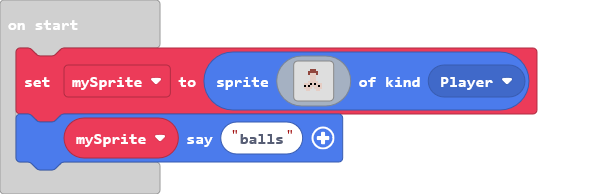
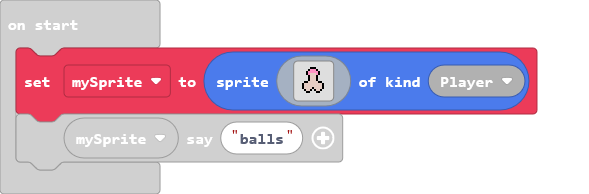
Update main.blocks, main.ts

Changed region(s): [[0.0, 0.5567, 0.5806, 0.8969], [0.7029, 0.3093, 0.9168, 0.5258], [0.489, 0.3402, 0.5501, 0.4948]]

diff --git a/main.ts b/main.ts
@@ -1,18 +1,18 @@
 let mySprite = sprites.create(img`
     . . . . . . . . . . . . . . . . 
-    . . . . . . . . . . . . . . . . 
-    . . . . . . e e e . . . . . . . 
-    . . . . . e e e e e . . . . . . 
-    . . . . . e d d d e . . . . . . 
-    . . . . . . d d d . . . . . . . 
-    . . . . . . d d d . . . . . . . 
-    . . . . . . d d d . . . . . . . 
-    . . . . . d d d d d . . . . . . 
-    . . . d d d f d f d d d . . . . 
-    . . . f d f d d d d f d . . . . 
-    . . . d d d d . d d d d . . . . 
-    . . . . d d . . . d d . . . . . 
-    . . . . . . . . . . . . . . . . 
+    . . . . . . f f f . . . . . . . 
+    . . . . . f 3 3 3 f . . . . . . 
+    . . . . f 3 3 3 3 3 f . . . . . 
+    . . . . f 3 d d d 3 f . . . . . 
+    . . . . . f d d d f . . . . . . 
+    . . . . . f d d d f . . . . . . 
+    . . . . . f d d d f . . . . . . 
+    . . . f f d d d d d f f . . . . 
+    . . f d d d d d d d d d f . . . 
+    . . f d d d d d d d d d f . . . 
+    . . f d d d d f d d d d f . . . 
+    . . . f d d f . f d d f . . . . 
+    . . . . f f . . . f f . . . . . 
     . . . . . . . . . . . . . . . . 
     . . . . . . . . . . . . . . . . 
     `, SpriteKind.Player)
